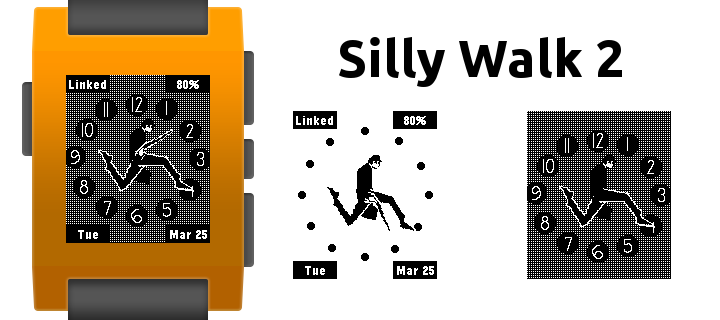
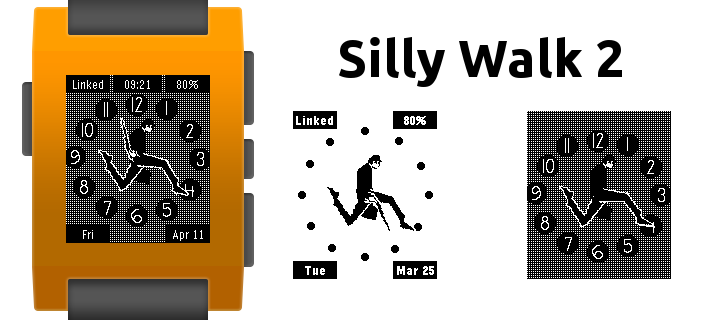
Version 2.2 - Added option to display digital time - CPU and Battery optimizations - Visual cleanup - Bugfixes

diff --git a/silly_walk_2_0/src/js/pebble-js-app.js b/silly_walk_2_0/src/js/pebble-js-app.js
@@ -1,4 +1,4 @@
-var setPebbleToken = '8QNS';
+var setPebbleToken = 'YJFJ';
 
 Pebble.addEventListener('ready', function(e) {
 });

diff --git a/silly_walk_2_0/src/silly_walk.c b/silly_walk_2_0/src/silly_walk.c
@@ -3,67 +3,90 @@
 static Window *window;
 
 static BitmapLayer *background_layer;
-static Layer *info_container, *info_layer;
-static TextLayer *bluetooth_layer, *battery_layer, *day_layer, *date_layer;
+static Layer *info_container, *info_layer, *digital_container;
+static TextLayer *bluetooth_layer, *battery_layer, *day_layer, *date_layer, *digital_layer;
 static RotBitmapLayer *black_hour_layer, *white_hour_layer, *black_minute_layer, *white_minute_layer, *black_second_layer, *white_second_layer;
 
-static char date_text[] = "Xxxxxxxxxxxxxxxxxxxxxxx 00", day_text[] = "Xxxxxxxxxxxxxxxxxxxxxxx 00", battery_text[] = "Xxxxxxxxxxxxxxxxxxxxxxx 00";
+static char date_text[] = "Xxxxxxxxxxxxxxxxxxxxxxx 00", day_text[] = "Xxxxxxxxxxxxxxxxxxxxxxx 00", battery_text[] = "Xxxxxxxxxxxxxxxxxxxxxxx 00", digital_text[] = "Xxxxxxxxxxxxxxxxxxxxxxx 00";
 
 static GBitmap *background_bitmap, *background_simple_bitmap;
 static GBitmap *black_hour_bitmap, *white_hour_bitmap, *black_minute_bitmap, *white_minute_bitmap, *black_second_bitmap, *white_second_bitmap;
 
-enum Settings { setting_seconds = 1, setting_background, setting_info };
+enum Settings { setting_seconds = 1, setting_background, setting_info, setting_digital };
 static enum SettingSeconds { seconds_on = 0, seconds_off } seconds;
 static enum SettingBackground { background_rich = 0, background_simple } background;
 static enum SettingInfo { info_on = 0, info_off } info;
+static enum SettingDigital { digital_off = 0, digital_24, digital_12 } digital;
 static AppSync app;
 static uint8_t buffer[256];
 
+int32_t last_hour = -1, last_minute = -1;
+
 void update_time(struct tm* t) {
+  // Find out what needs to be updated
+  bool hour_changed = false;
+  bool minute_changed = false;
+  
+  if (last_hour != t->tm_hour) {
+    hour_changed = true;
+    last_hour = t->tm_hour;
+  }
+  
+  if (last_minute != t->tm_min) {
+    minute_changed = true;
+    last_minute = t->tm_min;
+  }
+  
   // Update hour hand
-  int32_t hour_angle = TRIG_MAX_ANGLE * (((t->tm_hour % 12) * 30) + (t->tm_min/2)) / 360;
-  GRect hour_frame = layer_get_frame((Layer*) white_hour_layer);
-  hour_frame.origin.x = (144/2) - (hour_frame.size.w/2);  
-  hour_frame.origin.y = (168/2) - (hour_frame.size.h/2);
+  if (hour_changed) {
+    int32_t hour_angle = TRIG_MAX_ANGLE * (((t->tm_hour % 12) * 30) + (t->tm_min/2)) / 360;
+    GRect hour_frame = layer_get_frame((Layer*) white_hour_layer);
+    hour_frame.origin.x = (144/2) - (hour_frame.size.w/2);  
+    hour_frame.origin.y = (168/2) - (hour_frame.size.h/2);
   
-  rot_bitmap_layer_set_angle(white_hour_layer, hour_angle);
-  layer_set_frame((Layer*) white_hour_layer, hour_frame);
-	layer_mark_dirty((Layer*) white_hour_layer);
-  
-  rot_bitmap_layer_set_angle(black_hour_layer, hour_angle);
-  layer_set_frame((Layer*) black_hour_layer, hour_frame);
-	layer_mark_dirty((Layer*) black_hour_layer);
+    rot_bitmap_layer_set_angle(white_hour_layer, hour_angle);
+    layer_set_frame((Layer*) white_hour_layer, hour_frame);
+  	layer_mark_dirty((Layer*) white_hour_layer);
+    
+    rot_bitmap_layer_set_angle(black_hour_layer, hour_angle);
+    layer_set_frame((Layer*) black_hour_layer, hour_frame);
+  	layer_mark_dirty((Layer*) black_hour_layer);
+  }
   
   // Update minute hand
-  int32_t minute_angle = TRIG_MAX_ANGLE * (t->tm_min * 6) / 360;
-  GRect minute_frame = layer_get_frame((Layer*) white_minute_layer);
-  minute_frame.origin.x = (144/2) - (minute_frame.size.w/2);  
-  minute_frame.origin.y = (168/2) - (minute_frame.size.h/2);
-  
-  rot_bitmap_layer_set_angle(white_minute_layer, minute_angle);
-  layer_set_frame((Layer*) white_minute_layer, minute_frame);
-	layer_mark_dirty((Layer*) white_minute_layer);
-  
-  rot_bitmap_layer_set_angle(black_minute_layer, minute_angle);
-  layer_set_frame((Layer*) black_minute_layer, minute_frame);
-	layer_mark_dirty((Layer*) black_minute_layer);
+  if (minute_changed) {
+    int32_t minute_angle = TRIG_MAX_ANGLE * (t->tm_min * 6) / 360;
+    GRect minute_frame = layer_get_frame((Layer*) white_minute_layer);
+    minute_frame.origin.x = (144/2) - (minute_frame.size.w/2);  
+    minute_frame.origin.y = (168/2) - (minute_frame.size.h/2);
+    
+    rot_bitmap_layer_set_angle(white_minute_layer, minute_angle);
+    layer_set_frame((Layer*) white_minute_layer, minute_frame);
+  	layer_mark_dirty((Layer*) white_minute_layer);
+    
+    rot_bitmap_layer_set_angle(black_minute_layer, minute_angle);
+    layer_set_frame((Layer*) black_minute_layer, minute_frame);
+  	layer_mark_dirty((Layer*) black_minute_layer);
+  }
   
   // Update second hand
-  int32_t second_angle = TRIG_MAX_ANGLE * (t->tm_sec * 6) / 360;
-  GRect second_frame = layer_get_frame((Layer*) white_second_layer);
-  second_frame.origin.x = (144/2) - (second_frame.size.w/2);  
-  second_frame.origin.y = (168/2) - (second_frame.size.h/2);
+  if (seconds == seconds_on) {
+    int32_t second_angle = TRIG_MAX_ANGLE * (t->tm_sec * 6) / 360;
+    GRect second_frame = layer_get_frame((Layer*) white_second_layer);
+    second_frame.origin.x = (144/2) - (second_frame.size.w/2);  
+    second_frame.origin.y = (168/2) - (second_frame.size.h/2);
+    
+    rot_bitmap_layer_set_angle(white_second_layer, second_angle);
+    layer_set_frame((Layer*) white_second_layer, second_frame);
+  	layer_mark_dirty((Layer*) white_second_layer);
+    
+    rot_bitmap_layer_set_angle(black_second_layer, second_angle);
+    layer_set_frame((Layer*) black_second_layer, second_frame);
+  	layer_mark_dirty((Layer*) black_second_layer);
+  }
   
-  rot_bitmap_layer_set_angle(white_second_layer, second_angle);
-  layer_set_frame((Layer*) white_second_layer, second_frame);
-	layer_mark_dirty((Layer*) white_second_layer);
-  
-  rot_bitmap_layer_set_angle(black_second_layer, second_angle);
-  layer_set_frame((Layer*) black_second_layer, second_frame);
-	layer_mark_dirty((Layer*) black_second_layer);
-  
-  // Update info layer
-  if (info == info_on) {    
+  // Update info layer, but not that often
+  if ((info == info_on) && (minute_changed)) {    
     if (bluetooth_connection_service_peek())
       text_layer_set_text(bluetooth_layer, "Linked");
     else      
@@ -86,6 +109,25 @@ void update_time(struct tm* t) {
     strftime(date_text, sizeof(date_text), "%b %e", t);
     text_layer_set_text(date_layer, date_text);
   }
+  
+  // Update digital time
+  if ((digital != digital_off) && (minute_changed)) {
+    if (digital == digital_12)
+      strftime(digital_text, sizeof(digital_text), "%I:%M %p", t);
+    else
+      strftime(digital_text, sizeof(digital_text), "%H:%M", t);
+    
+    text_layer_set_text(digital_layer, digital_text);
+  }
+}
+
+void update_now() {
+  last_hour = -1;
+  last_minute = -1;
+  
+  time_t now = time(NULL);
+  struct tm *t = localtime(&now);
+  update_time(t);
 }
 
 void handle_tick(struct tm *tick_time, TimeUnits units_changed) {  
@@ -97,10 +139,6 @@ void enable_seconds() {
   layer_add_child(window_layer, bitmap_layer_get_layer((BitmapLayer*) white_second_layer));
   layer_add_child(window_layer, bitmap_layer_get_layer((BitmapLayer*) black_second_layer));
   
-  time_t now = time(NULL);
-  struct tm *t = localtime(&now);
-  update_time(t);
-  
   tick_timer_service_unsubscribe();
   tick_timer_service_subscribe(SECOND_UNIT, &handle_tick);
 }
@@ -108,10 +146,6 @@ void enable_seconds() {
 void disable_seconds() {
   layer_remove_from_parent(bitmap_layer_get_layer((BitmapLayer*) white_second_layer));
   layer_remove_from_parent(bitmap_layer_get_layer((BitmapLayer*) black_second_layer));
-  
-  time_t now = time(NULL);
-  struct tm *t = localtime(&now);
-  update_time(t);
   
   tick_timer_service_unsubscribe();
   tick_timer_service_subscribe(MINUTE_UNIT, &handle_tick);
@@ -125,6 +159,18 @@ void enable_info() {
 void disable_info() {
   layer_remove_from_parent(info_layer);  
 	layer_mark_dirty(info_container);
+}
+
+void enable_digital() {
+  layer_add_child(digital_container, text_layer_get_layer(digital_layer));  
+	layer_mark_dirty(digital_container);
+  
+  update_now();
+}
+
+void disable_digital() {
+  layer_remove_from_parent(text_layer_get_layer(digital_layer));  
+	layer_mark_dirty(digital_container);
 }
 
 static void tuple_changed_callback(const uint32_t key, const Tuple* tuple_new, const Tuple* tuple_old, void* context) {
@@ -155,6 +201,15 @@ static void tuple_changed_callback(const uint32_t key, const Tuple* tuple_new, c
       else
         disable_info();
       break;
+    case setting_digital:
+      digital = value;
+      persist_write_int(setting_digital, digital);
+      
+      if (digital == digital_off)
+        disable_digital();
+      else
+        enable_digital();
+      break;
   }
 }
 
@@ -170,16 +225,21 @@ void init(void) {
   Layer *window_layer = window_get_root_layer(window);
   GRect window_bounds = layer_get_bounds(window_layer);
   
-  // Set defaults
+  last_hour = -1;
+  last_minute = -1;
+  
+  // Get local values before the JS is ready to prevent flickering
   seconds = persist_read_int(setting_seconds);
   background = persist_read_int(setting_background);
   info = persist_read_int(setting_info);
+  digital = persist_read_int(setting_digital);
   
   // Load settings 
   Tuplet tuples[] = {
     TupletInteger(setting_seconds, seconds),
     TupletInteger(setting_background, background),
-    TupletInteger(setting_info, info)
+    TupletInteger(setting_info, info),
+    TupletInteger(setting_digital, digital)
   };
   app_message_open(160, 160);
   app_sync_init(&app, buffer, sizeof(buffer), tuples, ARRAY_LENGTH(tuples),
@@ -199,28 +259,28 @@ void init(void) {
   info_layer = layer_create(window_bounds);
   
   bluetooth_layer = text_layer_create((GRect) { .origin = { 0, 0 }, .size = { 44, 18 } });
-  text_layer_set_font(bluetooth_layer, fonts_get_system_font(FONT_KEY_GOTHIC_14_BOLD));
+  text_layer_set_font(bluetooth_layer, fonts_get_system_font(FONT_KEY_GOTHIC_14));
   text_layer_set_text_alignment(bluetooth_layer, GTextAlignmentCenter);
   text_layer_set_background_color(bluetooth_layer, GColorBlack);
   text_layer_set_text_color(bluetooth_layer, GColorWhite);
   layer_add_child(info_layer, text_layer_get_layer(bluetooth_layer));
   
   battery_layer = text_layer_create((GRect) { .origin = { 100, 0 }, .size = { 44, 18 } });
-  text_layer_set_font(battery_layer, fonts_get_system_font(FONT_KEY_GOTHIC_14_BOLD));
+  text_layer_set_font(battery_layer, fonts_get_system_font(FONT_KEY_GOTHIC_14));
   text_layer_set_text_alignment(battery_layer, GTextAlignmentCenter);
   text_layer_set_background_color(battery_layer, GColorBlack);
   text_layer_set_text_color(battery_layer, GColorWhite);
   layer_add_child(info_layer, text_layer_get_layer(battery_layer));
   
   day_layer = text_layer_create((GRect) { .origin = { 0, 150 }, .size = { 44, 18 } });
-  text_layer_set_font(day_layer, fonts_get_system_font(FONT_KEY_GOTHIC_14_BOLD));
+  text_layer_set_font(day_layer, fonts_get_system_font(FONT_KEY_GOTHIC_14));
   text_layer_set_text_alignment(day_layer, GTextAlignmentCenter);
   text_layer_set_background_color(day_layer, GColorBlack);
   text_layer_set_text_color(day_layer, GColorWhite);
   layer_add_child(info_layer, text_layer_get_layer(day_layer)); 
   
   date_layer = text_layer_create((GRect) { .origin = { 100, 150 }, .size = { 44, 18 } });
-  text_layer_set_font(date_layer, fonts_get_system_font(FONT_KEY_GOTHIC_14_BOLD));
+  text_layer_set_font(date_layer, fonts_get_system_font(FONT_KEY_GOTHIC_14));
   text_layer_set_text_alignment(date_layer, GTextAlignmentCenter);
   text_layer_set_background_color(date_layer, GColorBlack);
   text_layer_set_text_color(date_layer, GColorWhite);
@@ -230,6 +290,22 @@ void init(void) {
     enable_info();
   else
     disable_info();
+  
+  // Init digital time
+  digital_container = layer_create(window_bounds);  
+  layer_add_child(window_layer, digital_container);
+  
+  digital_layer = text_layer_create((GRect) { .origin = { 48, 0 }, .size = { 48, 18 } });
+  text_layer_set_font(digital_layer, fonts_get_system_font(FONT_KEY_GOTHIC_14));
+  text_layer_set_text_alignment(digital_layer, GTextAlignmentCenter);
+  text_layer_set_background_color(digital_layer, GColorBlack);
+  text_layer_set_text_color(digital_layer, GColorWhite);
+  layer_add_child(digital_container, text_layer_get_layer(digital_layer));
+  
+  if (digital == digital_off)
+    disable_digital();
+  else
+    enable_digital();
   
   // Init hour hand
   white_hour_bitmap = gbitmap_create_with_resource(RESOURCE_ID_IMAGE_HOUR_HAND_WHITE);
@@ -297,6 +373,17 @@ void deinit(void) {
   rot_bitmap_layer_destroy(white_minute_layer);
   rot_bitmap_layer_destroy(black_second_layer);
   rot_bitmap_layer_destroy(white_second_layer);
+  
+  layer_destroy(info_container);
+  layer_destroy(info_layer);   
+  layer_destroy(digital_container);
+  
+  text_layer_destroy(bluetooth_layer);
+  text_layer_destroy(battery_layer);
+  text_layer_destroy(day_layer);
+  text_layer_destroy(date_layer);
+  
+  text_layer_destroy(digital_layer);
                    
   window_destroy(window);
 }

diff --git a/README.md b/README.md
@@ -5,7 +5,9 @@ My Pebble 2.0 port (+ further development) of dansl's original "Pebble Watchface
 
 Original can be found on [dansl's GitHub](https://github.com/dansl/pebble-silly-walk)
 
-Look for this version with JS settings on Pebble AppStore, or download it [here](/pebble_silly_walk_2_1.pbw).
+Look for this version with JS settings on Pebble AppStore, or download it [here](/pebble_silly_walk_2_2.pbw).
+
+![Rich + Seconds + Info + Digital](/reference7.png)
 
 ![Rich + Seconds + Info](/reference5.png)
 
